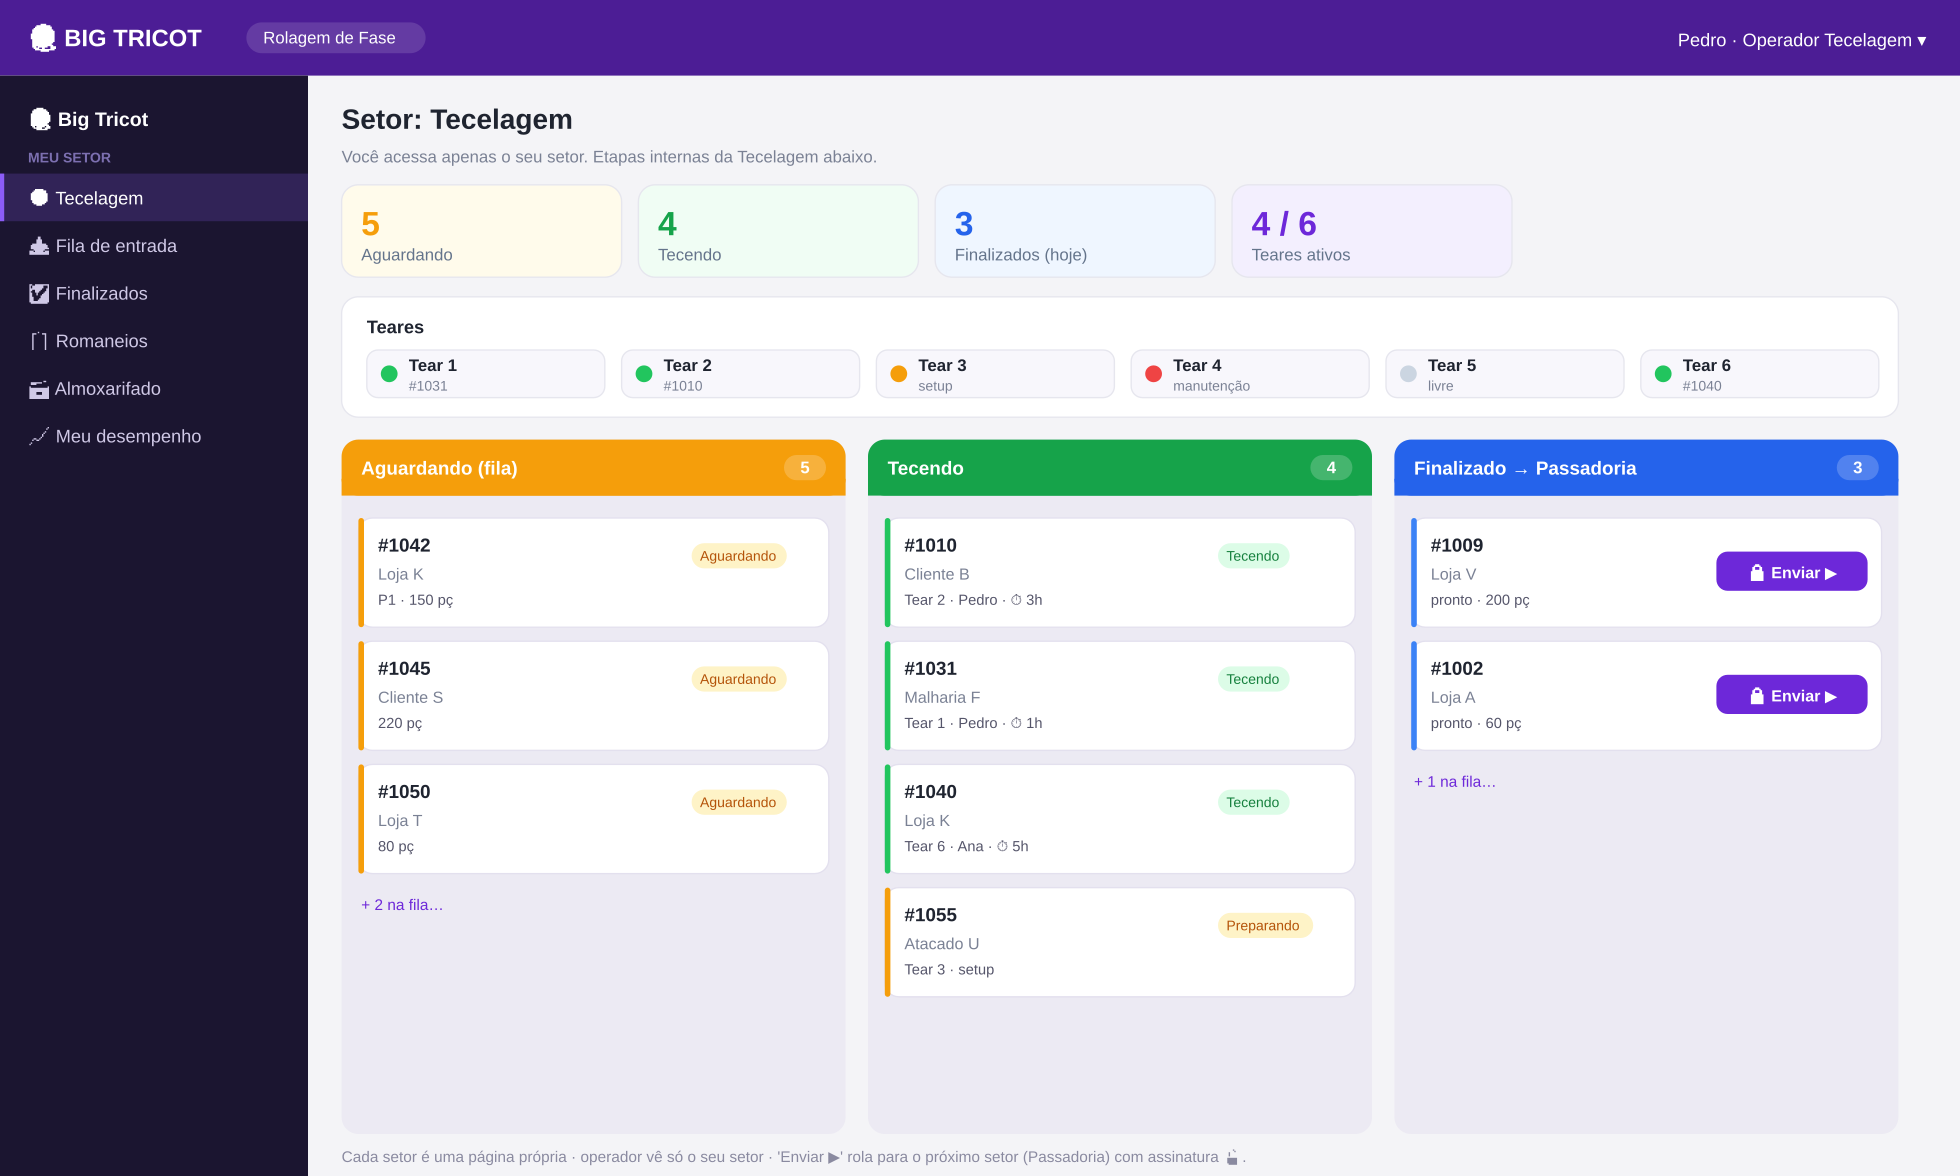
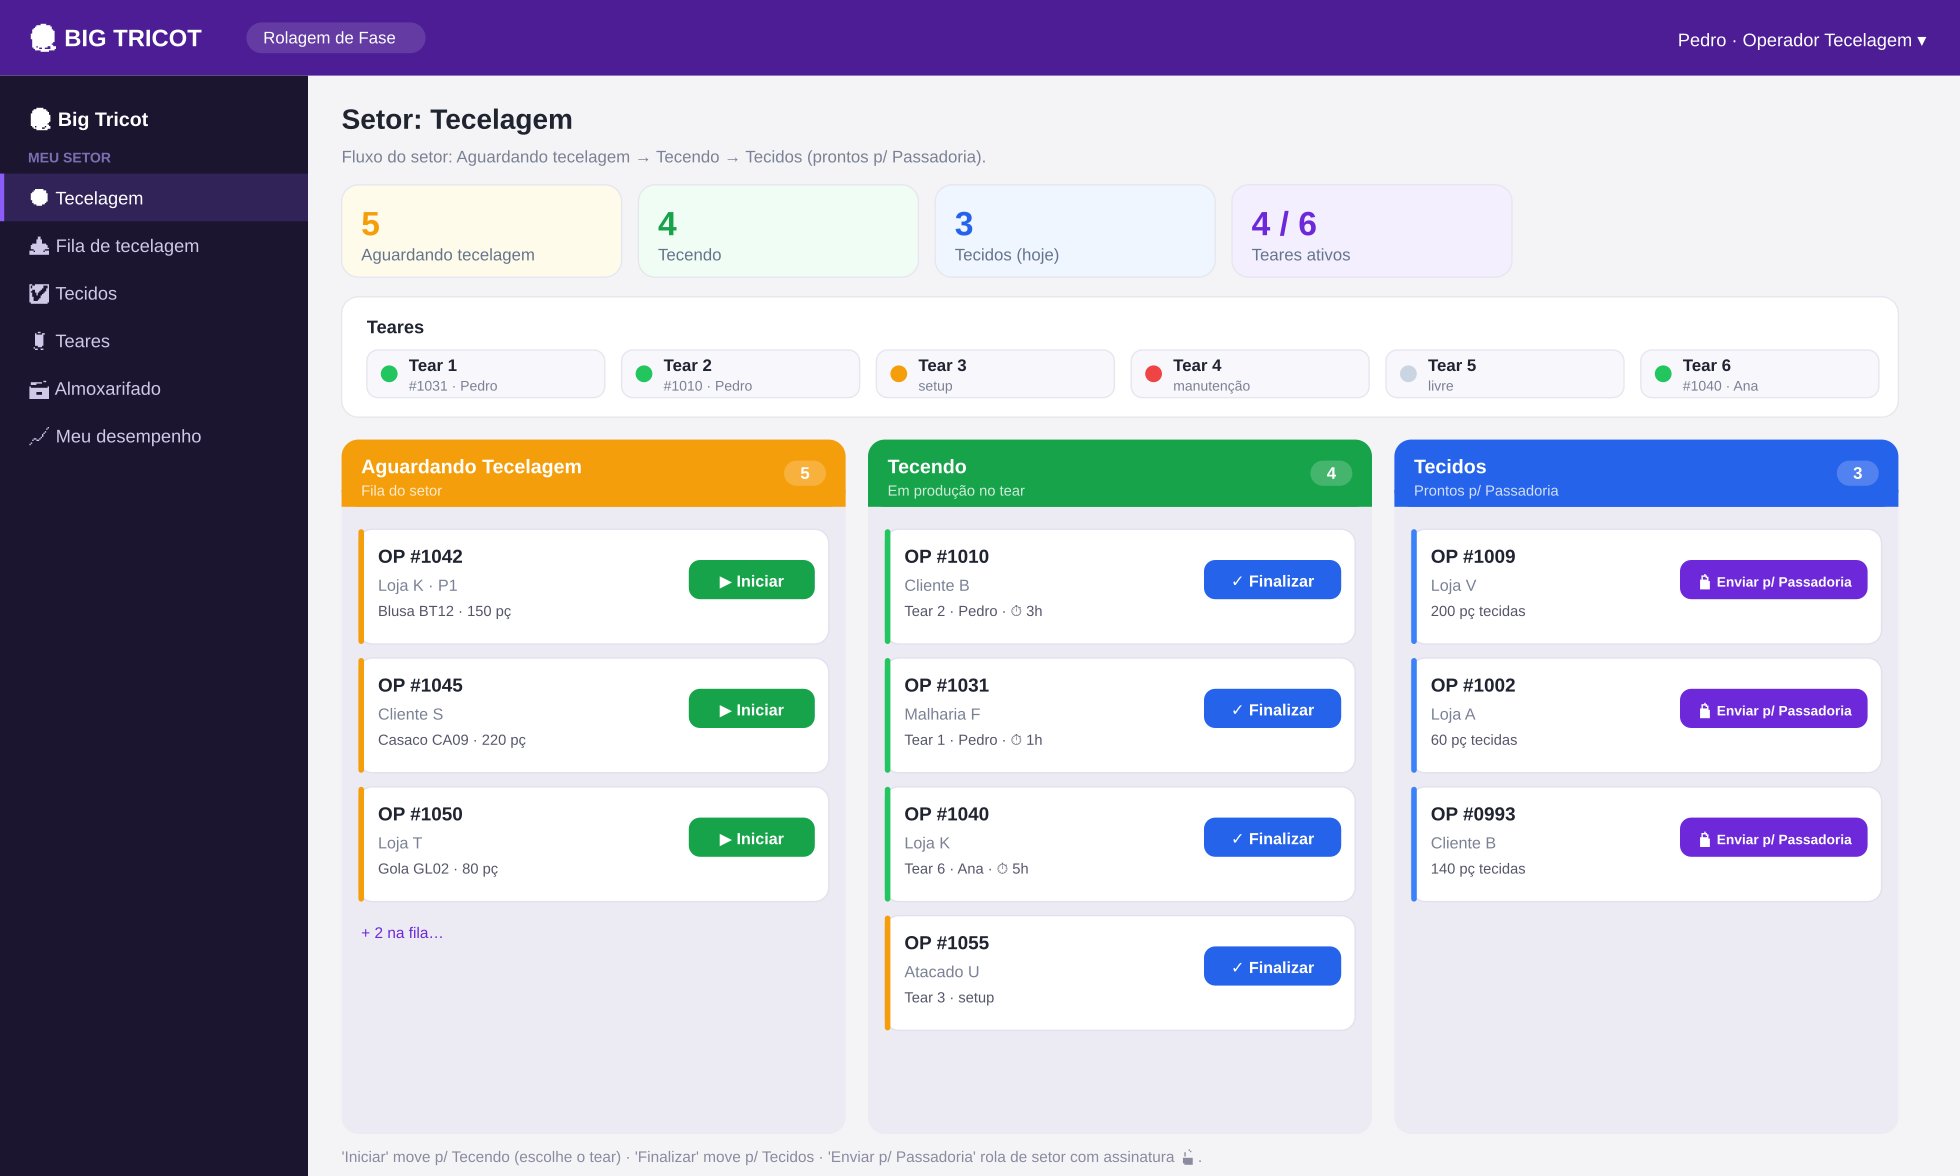
docs: refina fluxo do setor Tecelagem (3 colunas + acoes)
Aguardando Tecelagem -> Tecendo -> Tecidos, com botoes Iniciar/Finalizar/
Enviar p/ Passadoria e painel de teares. Corte sera detalhado apos aprovacao.

Claude-Session: https://claude.ai/code/session_01XdKmwhB2iKVzR9dcT8XvFF

diff --git a/scripts/gen_setor.py b/scripts/gen_setor.py
@@ -21,19 +21,17 @@ b=rect(0,0,W,54,"#4c1d95")
 b+=text(20,33,"🧶 BIG TRICOT",17,"#fff",weight="bold")
 b+=rect(176,16,128,22,"#ffffff22",rx=11)+text(188,31,"Rolagem de Fase",12,"#fff")
 b+=text(W-24,33,"Pedro · Operador Tecelagem ▾",13,"#fff",anchor="end")
-# sidebar — só o que o setor acessa
 b+=rect(0,54,220,H-54,"#1b1530")+text(20,90,"🧶 Big Tricot",14,"#fff",weight="bold")
 b+=text(20,116,"MEU SETOR",10,"#7c6fb0",weight="bold")
-items=[("🧶 Tecelagem",True),("📥 Fila de entrada",False),("✅ Finalizados",False),("📋 Romaneios",False),("🗃 Almoxarifado",False),("📈 Meu desempenho",False)]
+items=[("🧶 Tecelagem",True),("📥 Fila de tecelagem",False),("✅ Tecidos",False),("🧵 Teares",False),("🗃 Almoxarifado",False),("📈 Meu desempenho",False)]
 y=146
 for m,act in items:
     if act: b+=rect(0,y-22,220,34,"#8b5cf633")+rect(0,y-22,3,34,"#8b5cf6")+text(20,y,m,13,"#fff")
     else: b+=text(20,y,m,13,"#cfc8e6")
     y+=34
 b+=text(244,92,"Setor: Tecelagem",20,"#1f2430",weight="bold")
-b+=text(244,116,"Você acessa apenas o seu setor. Etapas internas da Tecelagem abaixo.",12,"#7a8194")
-# counters
-cnt=[("Aguardando","5","#f59e0b","#fffbeb"),("Tecendo","4","#16a34a","#f0fdf4"),("Finalizados (hoje)","3","#2563eb","#eff6ff"),("Teares ativos","4 / 6","#6d28d9","#f3effe")]
+b+=text(244,116,"Fluxo do setor: Aguardando tecelagem → Tecendo → Tecidos (prontos p/ Passadoria).",12,"#7a8194")
+cnt=[("Aguardando tecelagem","5","#f59e0b","#fffbeb"),("Tecendo","4","#16a34a","#f0fdf4"),("Tecidos (hoje)","3","#2563eb","#eff6ff"),("Teares ativos","4 / 6","#6d28d9","#f3effe")]
 x=244
 for l,n,c,bg in cnt:
     b+=rect(x,132,200,66,bg,rx=12,stroke="#e6e6ee")
@@ -42,57 +40,60 @@ for l,n,c,bg in cnt:
 # teares strip
 b+=rect(244,212,1112,86,"#fff",rx=12,stroke="#e6e6ee")
 b+=text(262,238,"Teares",13,"#1f2430",weight="bold")
-teares=[("Tear 1","#1031","green"),("Tear 2","#1010","green"),("Tear 3","setup","amber"),("Tear 4","manutenção","red"),("Tear 5","livre","gray"),("Tear 6","#1040","green")]
+teares=[("Tear 1","#1031 · Pedro","green"),("Tear 2","#1010 · Pedro","green"),("Tear 3","setup","amber"),("Tear 4","manutenção","red"),("Tear 5","livre","gray"),("Tear 6","#1040 · Ana","green")]
 tx=262
 for nm,st,col in teares:
     b+=rect(tx,250,170,34,"#f8f7fc",rx=8,stroke="#e6e6ee")
     dot={"green":"#22c55e","amber":"#f59e0b","red":"#ef4444","gray":"#cbd5e1"}[col]
-    b+=f'<circle cx="{tx+16}" cy="{267}" r="6" fill="{dot}"/>'
+    b+=f'<circle cx="{tx+16}" cy="267" r="6" fill="{dot}"/>'
     b+=text(tx+30,265,nm,12,"#1f2430",weight="bold")+text(tx+30,279,st,10,"#7a8194")
     tx+=182
-# internal kanban 3 cols
+# 3 columns
 cols=[
- ("Aguardando (fila)","#f59e0b",[
-    ("#1042","Loja K","P1 · 150 pç","amber","Aguardando"),
-    ("#1045","Cliente S","220 pç","amber","Aguardando"),
-    ("#1050","Loja T","80 pç","amber","Aguardando"),
+ ("Aguardando Tecelagem","Fila do setor","#f59e0b",[
+    ("OP #1042","Loja K · P1","Blusa BT12 · 150 pç","amber","start"),
+    ("OP #1045","Cliente S","Casaco CA09 · 220 pç","amber","start"),
+    ("OP #1050","Loja T","Gola GL02 · 80 pç","amber","start"),
  ],5),
- ("Tecendo","#16a34a",[
-    ("#1010","Cliente B","Tear 2 · Pedro · ⏱ 3h","green","Tecendo"),
-    ("#1031","Malharia F","Tear 1 · Pedro · ⏱ 1h","green","Tecendo"),
-    ("#1040","Loja K","Tear 6 · Ana · ⏱ 5h","green","Tecendo"),
-    ("#1055","Atacado U","Tear 3 · setup","amber","Preparando"),
+ ("Tecendo","Em produção no tear","#16a34a",[
+    ("OP #1010","Cliente B","Tear 2 · Pedro · ⏱ 3h","green","stop"),
+    ("OP #1031","Malharia F","Tear 1 · Pedro · ⏱ 1h","green","stop"),
+    ("OP #1040","Loja K","Tear 6 · Ana · ⏱ 5h","green","stop"),
+    ("OP #1055","Atacado U","Tear 3 · setup","amber","stop"),
  ],4),
- ("Finalizado → Passadoria","#2563eb",[
-    ("#1009","Loja V","pronto · 200 pç","blue","Enviar ▶"),
-    ("#1002","Loja A","pronto · 60 pç","blue","Enviar ▶"),
+ ("Tecidos","Prontos p/ Passadoria","#2563eb",[
+    ("OP #1009","Loja V","200 pç tecidas","blue","send"),
+    ("OP #1002","Loja A","60 pç tecidas","blue","send"),
+    ("OP #0993","Cliente B","140 pç tecidas","blue","send"),
  ],3),
 ]
 x0=244; cw=360; gap=16; ytop=314
-for ci,(name,hc,cards,total) in enumerate(cols):
+for ci,(name,sub,hc,cards,total) in enumerate(cols):
     x=x0+ci*(cw+gap)
     b+=rect(x,ytop,cw,H-ytop-30,"#eceaf3",rx=12)
-    b+=rect(x,ytop,cw,40,hc,rx=12)+rect(x,ytop+28,cw,12,hc)
-    b+=text(x+14,ytop+25,name,13.5,"#fff",weight="bold")
-    b+=rect(x+cw-44,ytop+11,30,18,"#ffffff33",rx=9)+text(x+cw-29,ytop+24,str(total),12,"#fff",weight="bold",anchor="middle")
-    cy=ytop+56
-    for num,cli,extra,stripe,stlbl in cards:
-        ch=78
+    b+=rect(x,ytop,cw,48,hc,rx=12)+rect(x,ytop+36,cw,12,hc)
+    b+=text(x+14,ytop+24,name,14,"#fff",weight="bold")
+    b+=text(x+14,ytop+40,sub,10.5,"#ffffffcc")
+    b+=rect(x+cw-44,ytop+15,30,18,"#ffffff33",rx=9)+text(x+cw-29,ytop+28,str(total),12,"#fff",weight="bold",anchor="middle")
+    cy=ytop+64
+    for num,cli,extra,stripe,act in cards:
+        ch=82
         b+=rect(x+12,cy,cw-24,ch,"#fff",rx=10,stroke="#e3e0ee")
         scol={"green":"#22c55e","amber":"#f59e0b","red":"#ef4444","blue":"#3b82f6"}[stripe]
         b+=rect(x+12,cy,4,ch,scol,rx=2)
         b+=text(x+26,cy+24,num,13.5,"#1f2430",weight="bold")
         b+=text(x+26,cy+44,cli,11.5,"#7a8194")
         b+=text(x+26,cy+62,extra,10.5,"#55556a")
-        if stlbl=="Enviar ▶":
-            b+=rect(x+cw-130,cy+24,108,28,"#6d28d9",rx=8)+text(x+cw-76,cy+43,"🔒 Enviar ▶",11.5,"#fff",weight="bold",anchor="middle")
-        else:
-            b+=pill(x+cw-110,cy+18,stlbl,stripe)
+        if act=="start":
+            b+=rect(x+cw-112,cy+22,90,28,"#16a34a",rx=8)+text(x+cw-67,cy+41,"▶ Iniciar",11.5,"#fff",weight="bold",anchor="middle")
+        elif act=="stop":
+            b+=rect(x+cw-120,cy+22,98,28,"#2563eb",rx=8)+text(x+cw-71,cy+41,"✓ Finalizar",11.5,"#fff",weight="bold",anchor="middle")
+        elif act=="send":
+            b+=rect(x+cw-156,cy+22,134,28,"#6d28d9",rx=8)+text(x+cw-89,cy+41,"🔒 Enviar p/ Passadoria",9.8,"#fff",weight="bold",anchor="middle")
         cy+=ch+10
     if total>len(cards):
         b+=text(x+14,cy+16,f"+ {total-len(cards)} na fila…",11,"#6d28d9")
-
-b+=text(244,H-10,"Cada setor é uma página própria · operador vê só o seu setor · 'Enviar ▶' rola para o próximo setor (Passadoria) com assinatura 🔒.",11,"#8a8aa0")
+b+=text(244,H-10,"'Iniciar' move p/ Tecendo (escolhe o tear) · 'Finalizar' move p/ Tecidos · 'Enviar p/ Passadoria' rola de setor com assinatura 🔒.",11,"#8a8aa0")
 os.makedirs(OUT_SVG,exist_ok=True)
 p=os.path.join(OUT_SVG,"20-setor-tecelagem.svg"); open(p,"w").write(svg(W,H,b))
 subprocess.run(["rsvg-convert","-z","1.4",p,"-o",os.path.join(OUT_PNG,"20-setor-tecelagem.png")],check=True)
